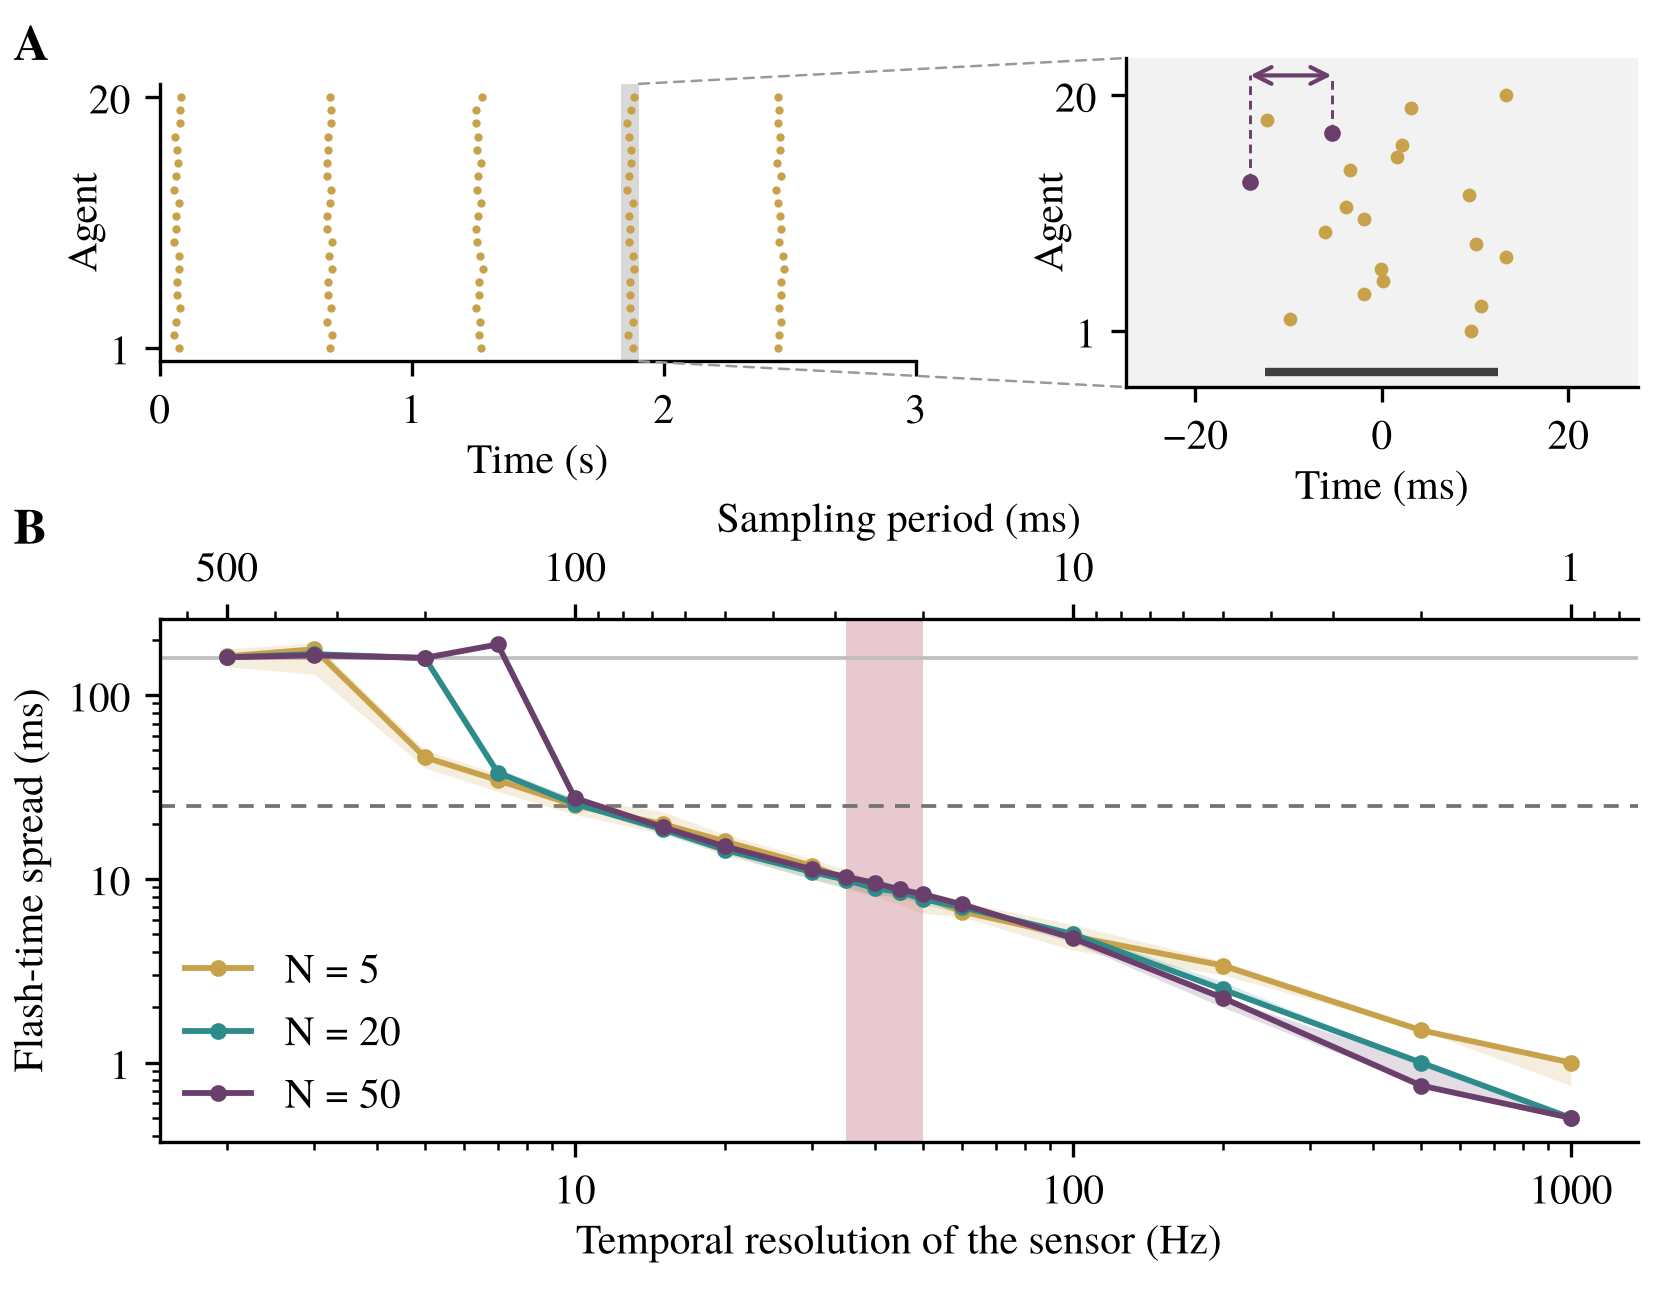
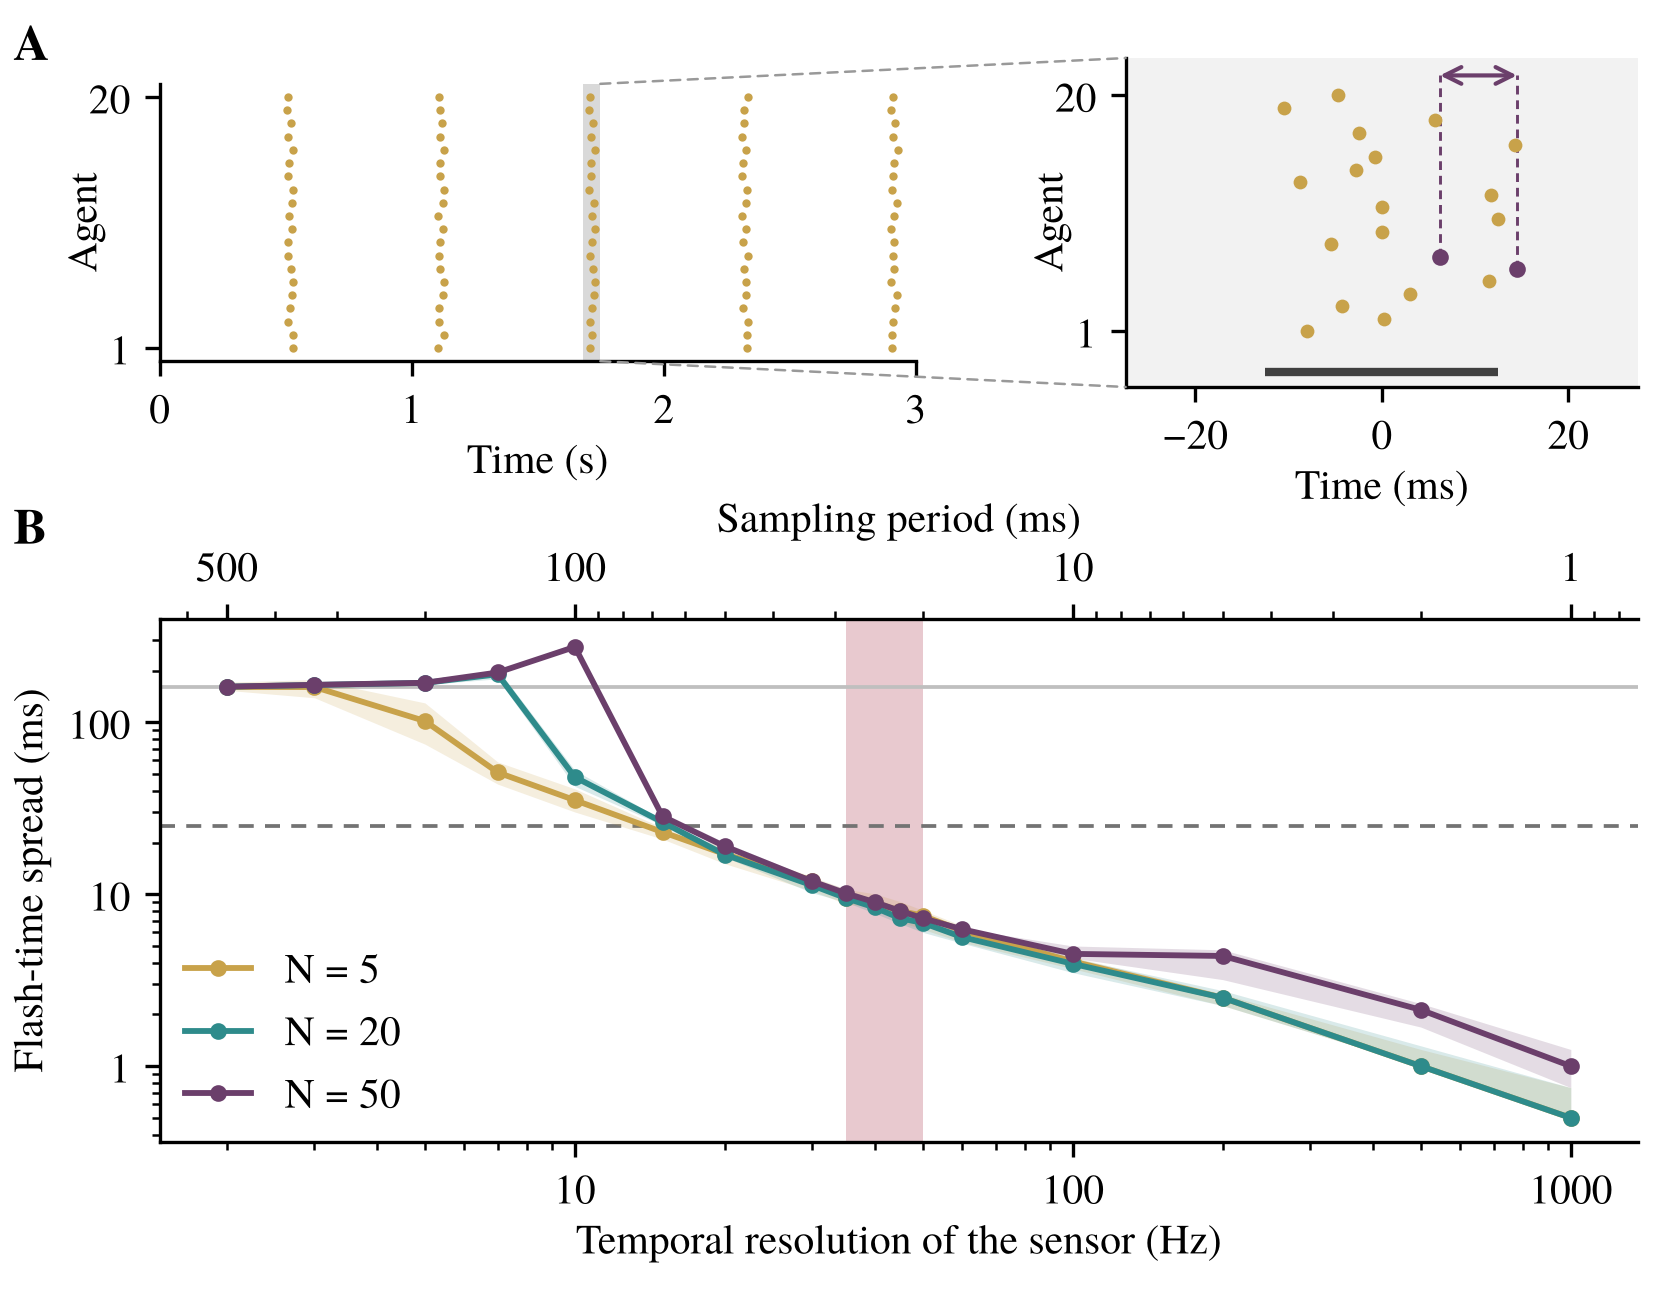
Add files via upload
Use the measured firefly response (mean tanh fit)

diff --git a/firefly_swarm_sensor_sweep.py b/firefly_swarm_sensor_sweep.py
@@ -35,40 +35,44 @@ MODEL (deliberately small)
              period_s   median individual flash period
 
 RESPONSE RULES (--prc)
-  measured   Parametric tanh fit of the measured P. frontalis PRC (Table S3 of
-             the preprint; default = the 700 ms LED row, closest to the natural
-             period of 0.64 s). Same function as R_tanh_step in led_firesync.
-  restoring  Generic synchronizing reference rule, Z = -gain*sin(2*pi*phi_eval)
-             (a pulsed Kuramoto rule: a flash seen just before mine advances
-             me, just after mine delays me).
+  mean       (default) The measured phase response of P. frontalis: one tanh
+             fit (the function of the preprint, R_tanh_step in led_firesync)
+             to the mean measured PRC across the eight LED periods. It is a
+             least-squares fit to the 50-bin mean of the per-period curves
+             (Yamp 0.383, y0 1.072, phi_c 0.039, kappa 3.91; RMS error 0.05 in
+             the period ratio).
+  measured   The same function with the parameters fitted for one LED period
+             (Table S3 of the preprint; choose the row with --led-ms).
+  restoring  Generic reference rule, Z = -gain*sin(2*pi*phi_eval) (a pulsed
+             Kuramoto rule).
+  Phase convention of the measured response: as in Figure 3 of the preprint.
+  An agent that flashes ahead of the flash it sees delays its next flash, and
+  an agent that is behind advances it. In the model phi_eval > 0 means the
+  agent flashed first (it is ahead), so the fitted curve is evaluated at
+  -phi_eval. The simulation code in led_firesync evaluates it at +phi_eval;
+  --phase-sign code does the same here.
 
-WHAT A FIRST RUN SHOWED (Nov 2026; defaults, 20 runs of 60 s per point)
-  restoring: the group synchronizes, and the flash-time spread is about 0.3 to
-             0.5 of the sensor window 1/f: about 25 ms at 10 Hz, 8 to 10 ms at
-             35 to 50 Hz (the firefly eye), 5 ms at 100 Hz, 1 ms or less at
-             1 kHz. Synchrony is lost below about 5 Hz (N = 5), 7 Hz (N = 20),
-             10 Hz (N = 50): larger groups need a faster sensor.
-  measured:  N mutually coupled agents do NOT settle at zero lag at any f
-             (R about 0.2; for N = 50 about half the agents stop flashing).
-             Near zero lag the fitted single-source PRC shortens the next
-             cycle of the agent that flashed first and lengthens the cycle of
-             the agent that flashed second, which pushes them apart (two
-             agents settle about 250 ms apart). So the open modeling step is
-             the rule for mutual, multi-source interaction, not the sensor.
-  3 frames/s: never synchronizes (0 of 20 runs after 20 min), and a group that
-             starts synchronized falls apart within 30 s. At 5 frames/s (N = 20)
-             synchrony is intermittent: 0 to 3 of 20 runs at any one time.
+WHAT THE SIMULATIONS SHOW (Nov 2026; defaults, 20 runs of 60 s per point)
+  mean:      the group synchronizes, and the flash-time spread is about one
+             third of the sensor window 1/f: about 25 ms at 15 Hz, 7 to 10 ms
+             at 35 to 50 Hz (the firefly eye), 4 ms at 100 Hz, 1 ms or less at
+             1 kHz. Synchrony is lost below about 7 Hz (N = 5), 10 Hz (N = 20),
+             15 Hz (N = 50): larger groups need a faster sensor.
+  restoring: the same spread at 35 to 50 Hz (8 to 10 ms); synchrony is lost
+             below about 5, 7 and 10 Hz.
+  --phase-sign code: no zero-lag synchrony in this model. How a response
+             measured with a single source should be applied to mutual
+             interaction among many flashers is an open modeling step.
   Not in the model yet: flash duration and brightness (detectability, range),
   spatial acuity (which neighbors can be told apart), motion.
 
 USAGE
-  python firefly_swarm_sensor_sweep.py --report           # default sweep + two-panel report figure
-  python firefly_swarm_sensor_sweep.py --report --from-csv sweep_restoring.csv   # redraw that figure
-  python firefly_swarm_sensor_sweep.py                    # default sweep + one-panel figure
-  python firefly_swarm_sensor_sweep.py --prc measured     # same sweep, measured PRC
+  python firefly_swarm_sensor_sweep.py --report           # default sweep + the two-panel figure
+  python firefly_swarm_sensor_sweep.py --report --from-csv sweep_mean.csv   # redraw that figure
   python firefly_swarm_sensor_sweep.py --single 40 --n 20 # one condition, prints metrics
   python firefly_swarm_sensor_sweep.py --k 8              # each agent sees 8 neighbors
-  python firefly_swarm_sensor_sweep.py --from-csv sweep_restoring.csv   # redraw figure
+  python firefly_swarm_sensor_sweep.py --prc restoring    # same sweep with the generic reference rule
+  python firefly_swarm_sensor_sweep.py --prc measured --led-ms 700   # fit for one LED period
   python firefly_swarm_sensor_sweep.py --schematic        # figure of the model and its parameters
   python firefly_swarm_sensor_sweep.py --rates 1000 40 3  # the group at three sensor rates
 Requires numpy and matplotlib only. Default sweep takes a few minutes on a laptop.
@@ -91,6 +95,10 @@ TABLE_S3 = {  # T_LED: (Yamp, y0, phi_c, kappa)
     700: (0.80, 1.20, 0.00, 10.0), 770: (1.00, 1.40, 0.30, 4.0),
     850: (1.00, 1.00, 0.00, 12.0), 1000: (1.20, 1.20, 0.15, 10.0),
 }
+# One tanh fit to the mean measured PRC across the eight LED periods (--prc mean):
+# least-squares fit of the same function to the 50-bin mean of the per-period curves
+# computed from the led_firesync data. RMS error 0.05 in the period ratio.
+MEAN_FIT = (0.3827, 1.0723, 0.0391, 3.908)  # (Yamp, y0, phi_c, kappa)
 
 
 def wrap_half(phi):
@@ -110,10 +118,13 @@ def prc_restoring(phi_eval, gain=0.15):
     return -gain * np.sin(2.0 * np.pi * phi_eval)
 
 
-def make_prc(name, led_ms=700, gain=0.15):
-    if name == "measured":
-        Yamp, y0, phi_c, kappa = TABLE_S3[led_ms]
-        return lambda p: prc_measured(p, Yamp, y0, phi_c, kappa)
+def make_prc(name, led_ms=700, gain=0.15, phase_sign="paper"):
+    if name in ("measured", "mean"):
+        Yamp, y0, phi_c, kappa = MEAN_FIT if name == "mean" else TABLE_S3[led_ms]
+        # Figure 3 of the preprint: ahead of the flash it sees -> delay, behind -> advance.
+        # phi_eval > 0 means the agent flashed first (ahead), so the curve is read at -phi_eval.
+        sign = 1.0 if phase_sign == "code" else -1.0
+        return lambda p: prc_measured(sign * p, Yamp, y0, phi_c, kappa)
     if name == "restoring":
         return lambda p: prc_restoring(p, gain)
     raise ValueError(name)
@@ -235,13 +246,15 @@ COLORS = {5: "#C8A24A", 20: "#2E8B8B", 50: "#6B3F6B"}  # amber, teal, plum
 
 
 def sweep(prc_name, freqs, Ns, out_prefix, **kw):
-    prc = make_prc(prc_name, kw.pop("led_ms", 700), kw.pop("gain", 0.15))
+    phase_sign = kw.pop("phase_sign", "paper")
+    prc = make_prc(prc_name, kw.pop("led_ms", 700), kw.pop("gain", 0.15), phase_sign)
+    label = prc_name + ("_codesign" if phase_sign == "code" and prc_name != "restoring" else "")
     rows = []
     for N in Ns:
         for f in freqs:
             t0 = time.time()
             r = run_condition(prc, N, float(f), **kw)
-            r["prc"] = prc_name
+            r["prc"] = label
             rows.append(r)
             print(f"{prc_name:9s} N={N:3d} f={f:6.0f} Hz  spread={r['spread_ms']:7.1f} ms  "
                   f"R={r['R']:.2f}  synced={r['frac_sync']:.2f}  period={r['period_s']:.3f} s  active={r['active']:.2f}  "
@@ -575,7 +588,7 @@ def plot_rates(out_png, rates=(1000.0, 40.0, 3.0), N=20, gain=0.15, seed=0):
     plt.close(fig)
 
 
-def plot_report(rows, out_png, f_eye=40.0, N=20, gain=0.15, seed=0):
+def plot_report(rows, out_png, f_eye=40.0, N=20, gain=0.15, seed=0, prc_name="mean", led_ms=700, phase_sign="paper"):
     """Figure for the report. (A) One simulated group whose sensor has the temporal
     resolution of the firefly eye (f_eye), with one group flash zoomed in. (B) Flash-time
     spread against sensor temporal resolution for the group sizes in `rows`."""
@@ -595,7 +608,7 @@ def plot_report(rows, out_png, f_eye=40.0, N=20, gain=0.15, seed=0):
 
     # ---- A: same runs as the sweep (20 runs of 60 s); draw the most typical run
     frame = 1e3 / f_eye
-    prc = make_prc("restoring", gain=gain)
+    prc = make_prc(prc_name, led_ms, gain, phase_sign)
     fl, _ = simulate(prc, N=N, f_sensor=f_eye, duration=60.0, trials=20, seed=seed)
     met = sync_metrics(fl, N, 20, 60.0)
     spread = np.nanmedian(met[:, 0])
@@ -664,9 +677,13 @@ def plot_report(rows, out_png, f_eye=40.0, N=20, gain=0.15, seed=0):
 
 def main():
     ap = argparse.ArgumentParser(description=__doc__, formatter_class=argparse.RawDescriptionHelpFormatter)
-    ap.add_argument("--prc", default="restoring", choices=["restoring", "measured"])
+    ap.add_argument("--prc", default="mean", choices=["mean", "measured", "restoring"],
+                    help="response rule: mean = measured firefly response, mean fit (default)")
     ap.add_argument("--led-ms", type=int, default=700, choices=sorted(TABLE_S3), help="Table S3 row for --prc measured")
     ap.add_argument("--gain", type=float, default=0.15, help="gain of the restoring rule")
+    ap.add_argument("--phase-sign", default="paper", choices=["paper", "code"],
+                    help="phase convention of the measured response: paper = Figure 3 of the preprint (default), "
+                         "code = the led_firesync simulation code")
     ap.add_argument("--freqs", type=float, nargs="+", default=DEFAULT_FREQS, help="sensor temporal resolutions (Hz)")
     ap.add_argument("--n", type=int, nargs="+", default=DEFAULT_NS, help="group sizes")
     ap.add_argument("--k", type=int, default=None, help="visible neighbors per agent (default: all)")
@@ -684,8 +701,10 @@ def main():
                     help="draw the group and its flash-time spread at these sensor rates (Hz), e.g. --rates 1000 40 3")
     ap.add_argument("--schematic", action="store_true", help="draw the model schematic and the compact explainer figures")
     ap.add_argument("--report", action="store_true",
-                    help="run the default sweep and draw the two-panel report figure (figure_sensor_resolution.png)")
+                    help="run the default sweep and draw the two-panel figure (sweep_mean.csv, figure_sensor_resolution.png)")
     a = ap.parse_args()
+    tag = (f"measured{a.led_ms}" if a.prc == "measured" else a.prc)
+    tag += "_codesign" if (a.phase_sign == "code" and a.prc != "restoring") else ""
     if a.report:
         if a.from_csv:  # redraw from a saved sweep
             with open(a.from_csv) as fh:
@@ -693,9 +712,11 @@ def main():
             for r in rows:
                 r["N"] = int(r["N"])
         else:
-            rows = sweep("restoring", DEFAULT_FREQS, DEFAULT_NS, "sweep_restoring", gain=a.gain, seed=a.seed)
-        plot_report(rows, "figure_sensor_resolution.png", gain=a.gain, seed=a.seed)
-        print("wrote figure_sensor_resolution.png")
+            rows = sweep(a.prc, DEFAULT_FREQS, DEFAULT_NS, f"sweep_{tag}", led_ms=a.led_ms, gain=a.gain,
+                         phase_sign=a.phase_sign, seed=a.seed)
+        fig = "figure_sensor_resolution.png" if tag == "mean" else f"figure_sensor_resolution_{tag}.png"
+        spread = plot_report(rows, fig, gain=a.gain, seed=a.seed, prc_name=a.prc, led_ms=a.led_ms, phase_sign=a.phase_sign)
+        print(f"wrote {fig} (panel A: flash-time spread {spread:.1f} ms)")
         return
     if a.rates:
         plot_rates("spread_by_sensor_rate.png", rates=a.rates, gain=a.gain)
@@ -718,12 +739,12 @@ def main():
               self_mask=not a.no_self_mask, latency_comp=not a.no_latency_comp, k=a.k,
               phase_spread=a.phase_spread)
     if a.single is not None:
-        prc = make_prc(a.prc, a.led_ms, a.gain)
+        prc = make_prc(a.prc, a.led_ms, a.gain, a.phase_sign)
         for N in a.n:
             print(run_condition(prc, N, a.single, **kw))
         return
-    out = a.out or f"sweep_{a.prc}"
-    rows = sweep(a.prc, a.freqs, a.n, out, led_ms=a.led_ms, gain=a.gain, **kw)
+    out = a.out or f"sweep_{tag}"
+    rows = sweep(a.prc, a.freqs, a.n, out, led_ms=a.led_ms, gain=a.gain, phase_sign=a.phase_sign, **kw)
     plot(rows, out + ".png")
     print("wrote", out + ".csv", "and", out + ".png")
 

diff --git a/README.md b/README.md
@@ -6,11 +6,12 @@ The model extends the integrate-and-fire model of single-firefly flash timing in
 
 ![Flash-time spread as a function of sensor temporal resolution](figure_sensor_resolution.png)
 
-**Figure.** (A) Flash times of 20 simulated agents whose sensor has the temporal resolution of the firefly eye (40 Hz, sampling period 25 ms). Left: three seconds of one run. Right: the shaded group flash, enlarged; the bar shows one sampling period, and the arrow marks two flashes separated by the flash-time spread (9 ms). (B) Flash-time spread (median and interquartile range of 20 runs) as a function of sensor temporal resolution for groups of 5, 20 and 50 agents. The shaded band marks the flicker fusion frequency of the *Photuris frontalis* eye (35 to 50 Hz, from electroretinography), the dashed line the duration of one flash (25 ms), and the solid gray line the spread expected with no synchrony (one quarter of the flash period).
+**Figure.** (A) Flash times of 20 simulated agents whose sensor has the temporal resolution of the firefly eye (40 Hz, sampling period 25 ms). Left: three seconds of one run. Right: the shaded group flash, enlarged; the bar shows one sampling period, and the arrow marks two flashes separated by the flash-time spread (8 ms). (B) Flash-time spread (median and interquartile range of 20 runs) as a function of sensor temporal resolution for groups of 5, 20 and 50 agents. The shaded band marks the flicker fusion frequency of the *Photuris frontalis* eye (35 to 50 Hz, from electroretinography), the dashed line the duration of one flash (25 ms), and the solid gray line the spread expected with no synchrony (one quarter of the flash period).
 
 ## Model
 
 - **Agent.** An integrate-and-fire phase oscillator with the natural flash period of *P. frontalis* (0.64 s, 5% variation between agents). The phase rises at a constant rate, the agent flashes when the phase reaches 1, and the phase resets to 0. When the agent perceives a flash, its phase shifts by an amount that depends on its current phase (a phase response curve).
+- **Response.** The measured phase response of *P. frontalis*: one fit of the tanh function of Martin et al. to the mean of their response curves across the eight LED periods (amplitude 0.383, offset 1.072, center 0.039, steepness 3.91; RMS error 0.05 in the period ratio). The phase convention is that of Figure 3 of Martin et al.: an agent that flashes ahead of the flash it sees delays its next flash, and an agent that is behind advances it.
 - **Sensor.** The eye samples in windows of length 1/f, where f is the temporal resolution in Hz. All neighbor flashes that begin inside one window are perceived as a single event, reported when the window closes. The agent therefore cannot order or count flashes that are closer together than one sampling period.
 - **Outcome.** The flash-time spread: the median time between a flash and the nearest flash of each other agent, over the last 20 s of a 60 s run. Zero means perfect zero-lag synchrony. The script also reports the Kuramoto order parameter and the flash period.
 
@@ -20,25 +21,27 @@ Requires Python 3 with NumPy and Matplotlib.
 
 ```
 pip install -r requirements.txt
-python firefly_swarm_sensor_sweep.py --report            # sweep + the figure above (about 3 minutes)
-python firefly_swarm_sensor_sweep.py --report --from-csv sweep_restoring.csv   # redraw the figure from the saved sweep
+python firefly_swarm_sensor_sweep.py --report            # sweep + the figure above (about 4 minutes)
+python firefly_swarm_sensor_sweep.py --report --from-csv sweep_mean.csv   # redraw the figure from the saved sweep
 python firefly_swarm_sensor_sweep.py --single 40 --n 20  # one condition, prints the metrics
-python firefly_swarm_sensor_sweep.py --prc measured      # same sweep with the measured firefly response curve
 python firefly_swarm_sensor_sweep.py --k 8               # each agent sees 8 random neighbors
 python firefly_swarm_sensor_sweep.py --help              # all options and a full description of the model
 ```
 
-`--report` writes `sweep_restoring.csv` (one row per group size and temporal resolution) and `figure_sensor_resolution.png`. Both files in this repository were produced by that command with the default settings: 20 runs of 60 s per condition, random initial phases, every agent sees every other agent.
+`--report` writes `sweep_mean.csv` (one row per group size and temporal resolution) and `figure_sensor_resolution.png`. Both files in this repository were produced by that command with the default settings: 20 runs of 60 s per condition, random initial phases, every agent sees every other agent.
 
-## Results of the first simulations
+## Results
 
-- At the temporal resolution measured for the firefly eye (35 to 50 Hz), every simulated group synchronized, with a flash-time spread of 8 to 10 ms. This is about one third of the duration of a flash and about 0.4 of the sampling period.
-- The spread shrinks as the sensor gets faster: about 25 ms at 10 Hz and 5 ms at 100 Hz.
-- Synchrony is lost when the sensor is slowed below about 5, 7 and 10 Hz for groups of 5, 20 and 50 agents. Larger groups need a faster sensor.
+- At the temporal resolution measured for the firefly eye (35 to 50 Hz), every simulated group synchronized, with a flash-time spread of 7 to 10 ms. This is about one third of the duration of a flash and about one third of the sampling period.
+- The spread shrinks as the sensor gets faster: about 25 ms at 15 Hz and 4 ms at 100 Hz.
+- Synchrony is lost when the sensor is slowed below about 7, 10 and 15 Hz for groups of 5, 20 and 50 agents. Larger groups need a faster sensor.
+- With sensors of 200 Hz and faster, synchrony is less reliable for 50 agents (60 to 85% of runs).
 
 ## Limits
 
-- The default response rule (`--prc restoring`) is a generic phase-restoring rule, not the measured firefly response. With the measured single-source response curve of Martin et al. (`--prc measured`), mutually coupled agents do not reach zero-lag synchrony at any temporal resolution. The rule for mutual interaction between many flashers is an open modeling step.
+- The response was measured with a single light source, and the model applies it to mutual interaction among many flashers.
+- The phase convention follows Figure 3 of Martin et al. The simulation code in led_firesync uses the opposite sign for this phase; `--phase-sign code` runs the model that way, and the groups then do not synchronize.
+- A generic phase-restoring rule (`--prc restoring`) gives a similar spread at 35 to 50 Hz (8 to 10 ms).
 - The model does not yet include spatial resolution, sensing range, flash duration and brightness, or movement.
 
 ## Funding
